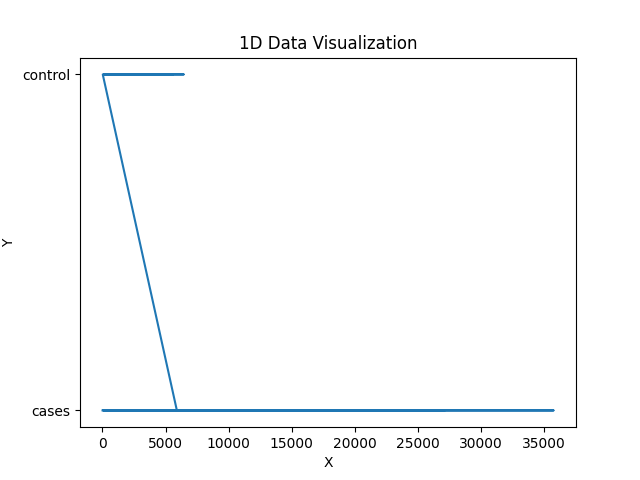
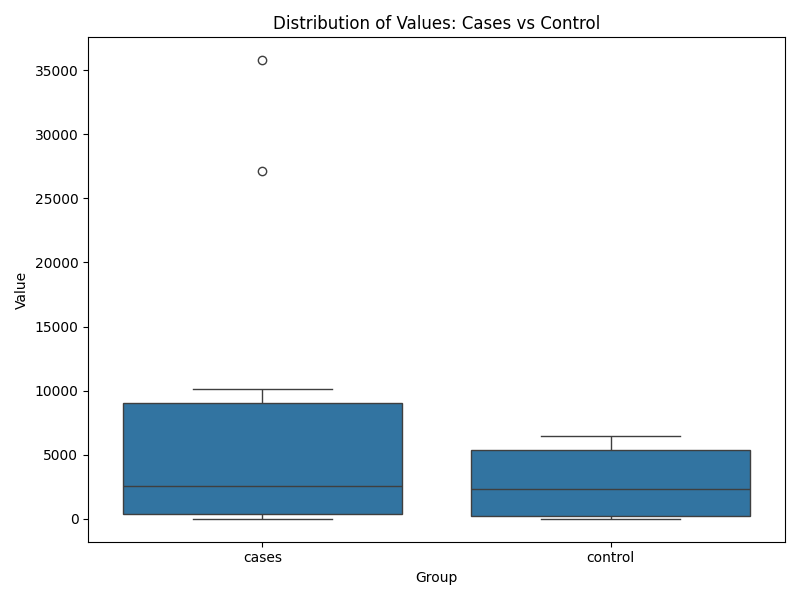
Fix 1d data visualization using boxplot

diff --git a/workflow/viz_1d_data.py b/workflow/viz_1d_data.py
@@ -1,23 +1,36 @@
 import pandas as pd
 import matplotlib.pyplot as plt
+import seaborn as sns
 
 def visualize_1d_data():
-    # Load cleaned data
+
+    # Load the dataset
     df = pd.read_csv("data/1d-data.csv")
+
+    # Remove missing values
     df = df.dropna()
 
-    # Create figure
-    plt.figure()
-    plt.plot(df.iloc[:, 0], df.iloc[:, 1])
-    plt.xlabel("X")
-    plt.ylabel("Y")
-    plt.title("1D Data Visualization")
+    # Identify columns
+    value_col = df.columns[0]
+    group_col = df.columns[1]
+
+    # Create visualization
+    plt.figure(figsize=(8,6))
+    sns.boxplot(data=df, x=group_col, y=value_col)
+
+    plt.title("Distribution of Values: Cases vs Control")
+    plt.xlabel("Group")
+    plt.ylabel("Value")
+
+    plt.tight_layout()
 
     # Save figure
     plt.savefig("figs/fig-1d-data.png")
-    plt.close()
 
-    print("Figure saved to figs/fig-1d-data.png")
+    # Show graph
+    plt.show()
+
+    print("Visualization saved to figs/fig-1d-data.png")
 
 if __name__ == "__main__":
     visualize_1d_data()
